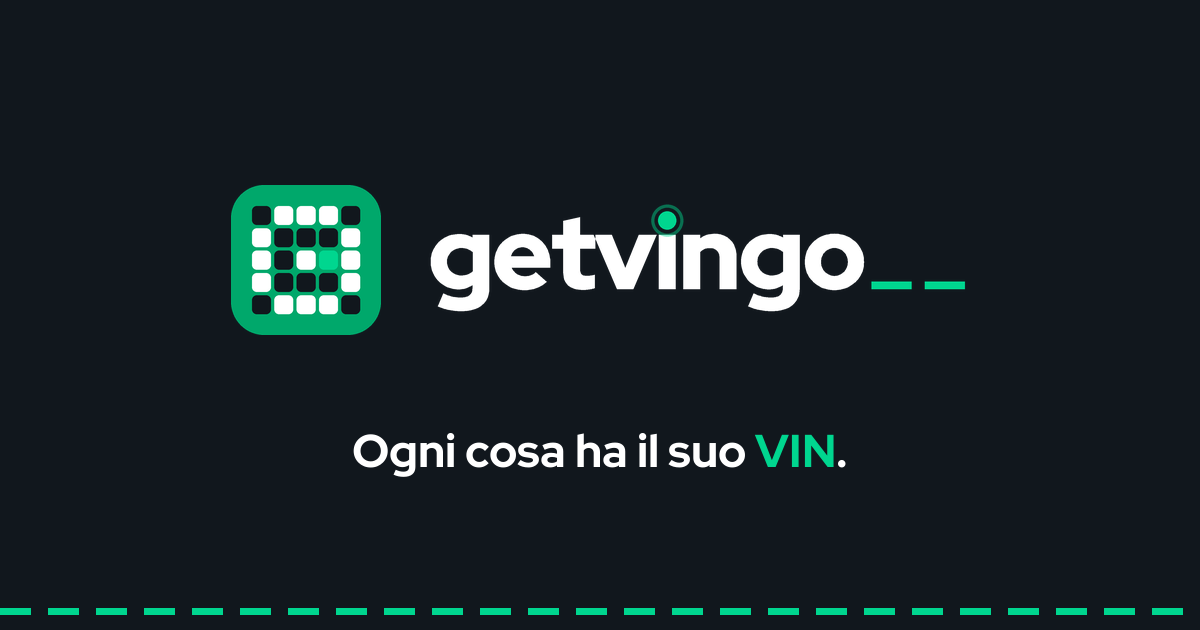
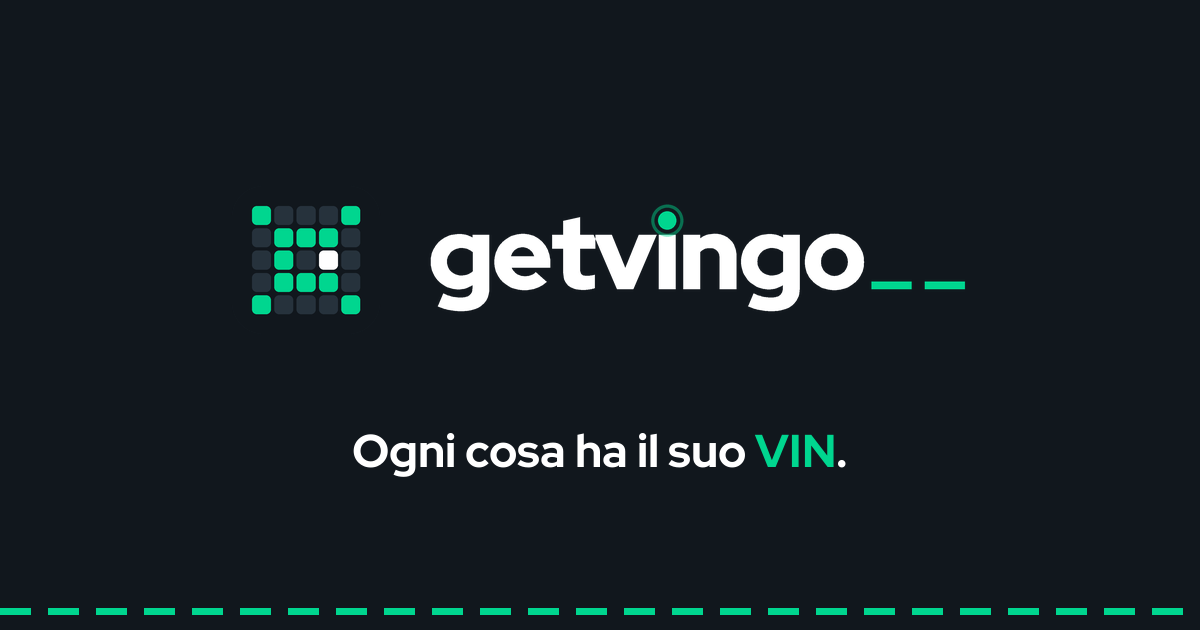
Icona su fondo asfalto con impronta verde; impronta dell'auto nell'intestazione del DDT

Changed region(s): [[0.185, 0.2714, 0.3392, 0.5429]]

diff --git a/getvingo/templates/ddt_dettaglio.html b/getvingo/templates/ddt_dettaglio.html
@@ -43,6 +43,8 @@
       <h1 class="num">N. {{ d.sigla }}</h1><span>{{ m.causale }}{% if m.con_lavorazione %} · {{ m.lavorazione }}{% endif %}</span></div>
     <div class="ddt-testata-dx">{{ badge_ddt(d) }}
       <div class="azioni">{{ azioni_ddt(d, piccoli=True) }}{% if puo_modificare %}<a class="btn piccolo" href="{{ url_for('main.ddt_modifica', ddt_id=d.id) }}">{{ i('matita', 's') }} Modifica</a>{% endif %}</div></div>
+    {# 16/11/2026: impronta dell'auto in alto a destra, come nell'intestazione dell'auto (non nel DDT multiplo) #}
+    {% if not d.multiplo and m.veicolo and m.veicolo.impronta is not none %}<div class="testa-impronta">{{ m.veicolo.impronta|impronta(72, riquadro=True, titolo='Impronta di questa auto') }}</div>{% endif %}
   </div>
   <div class="ddt-percorso">
     <div class="ddt-luogo"><small>Da</small><b>{{ m.da_sede.nome if m.da_sede else '—' }}</b>{% if m.da_sede and m.da_sede.dove %}<span>{{ m.da_sede.dove }}</span>{% endif %}</div>

diff --git a/getvingo/static/style.css b/getvingo/static/style.css
@@ -3135,3 +3135,6 @@ details.filtri-stock:has(.filtri-n) > summary { border-color: var(--segnale); }
 .catalogo-marca summary { cursor: pointer; min-height: 44px; display: flex; align-items: center; gap: 6px; }
 .catalogo-marca ul { margin: 6px 0 4px; padding-left: 18px; display: grid; gap: 6px; font-size: var(--fs-14); }
 .azioni-catalogo { margin: 14px 0 0; }
+
+/* impronta dell'auto nell'intestazione del DDT (16/11/2026), come in quella dell'auto */
+.ddt-testata-alto .testa-impronta .impronta { width: 72px; height: 72px; border-radius: 18px; box-shadow: 0 6px 16px rgba(0,0,0,.18); }
